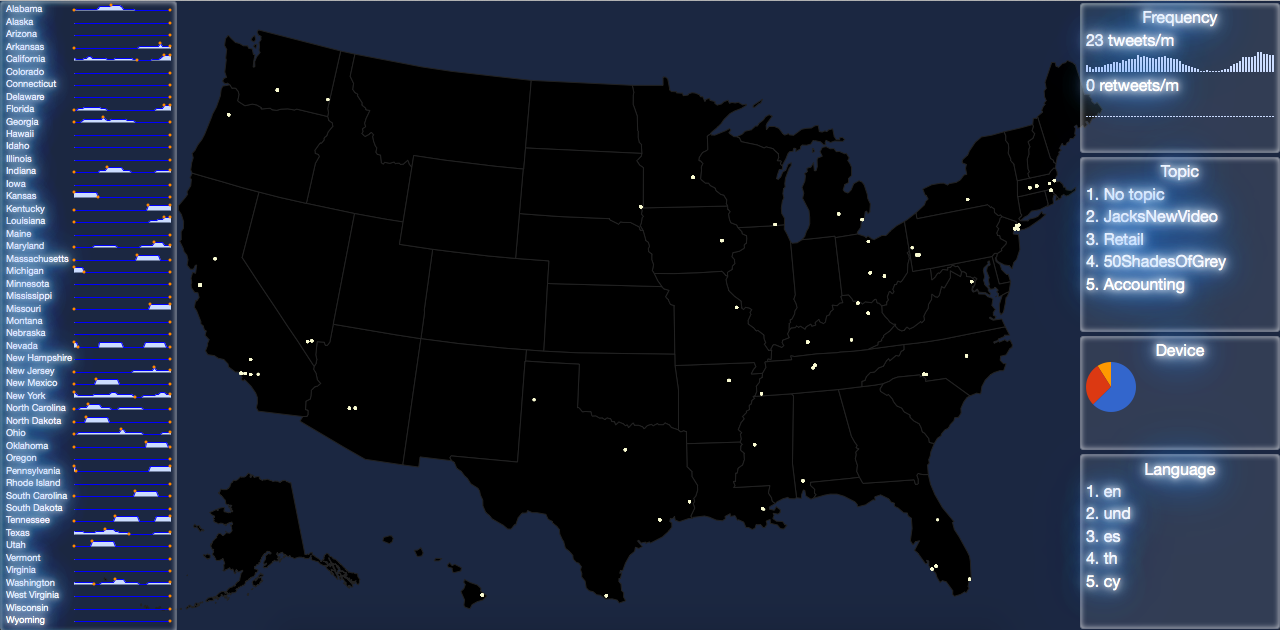
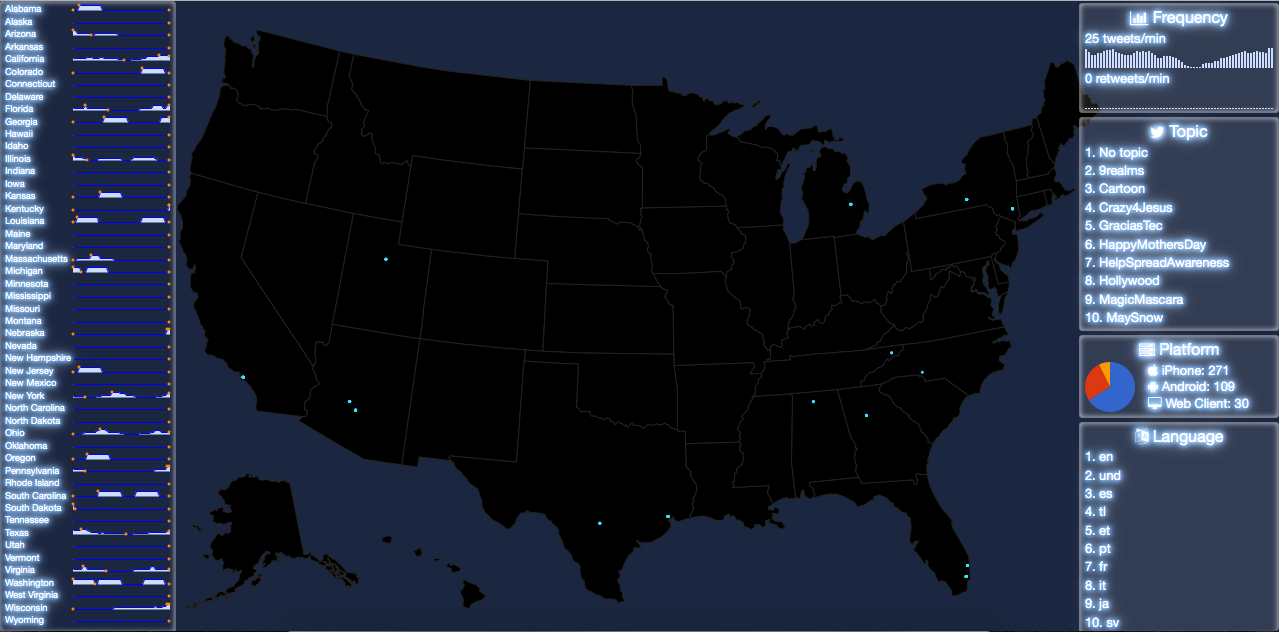
New screenshot

diff --git a/src/main/java/home/journal/util/TweetExtractor.java b/src/main/java/home/journal/util/TweetExtractor.java
@@ -157,9 +157,14 @@ public class TweetExtractor
             final Matcher matcher = hashTagMatcher.matcher(source.getText());
 
             if (matcher.find()) {
-                tweet.setTopic(matcher.group(1));
+                final String topic = matcher.group(1).trim();
+
+                if (topic.isEmpty()) {
+                    tweet.setTopic("No topic");
+                } else {
+                    tweet.setTopic(topic);
+                }
             } else {
-                //extractings.clear();
                 tweet.setTopic("No topic");
             }
         };
